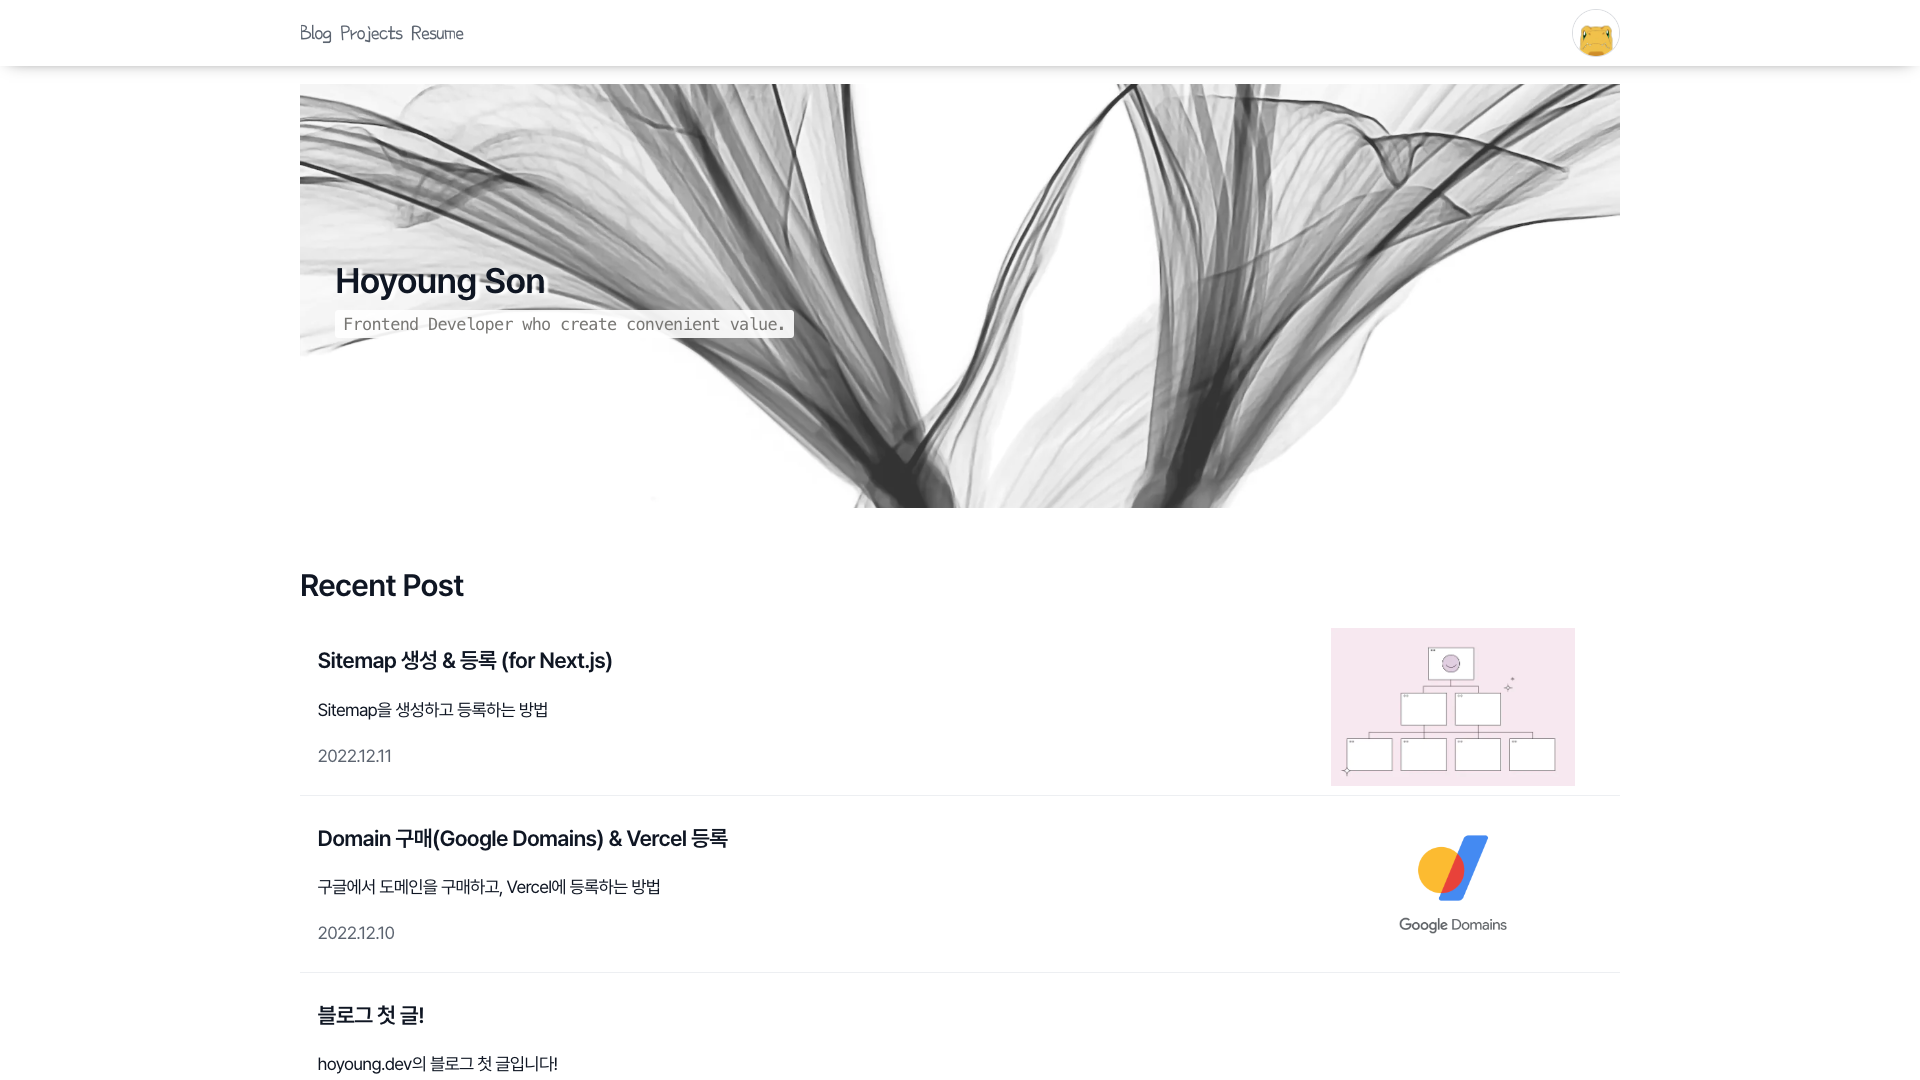
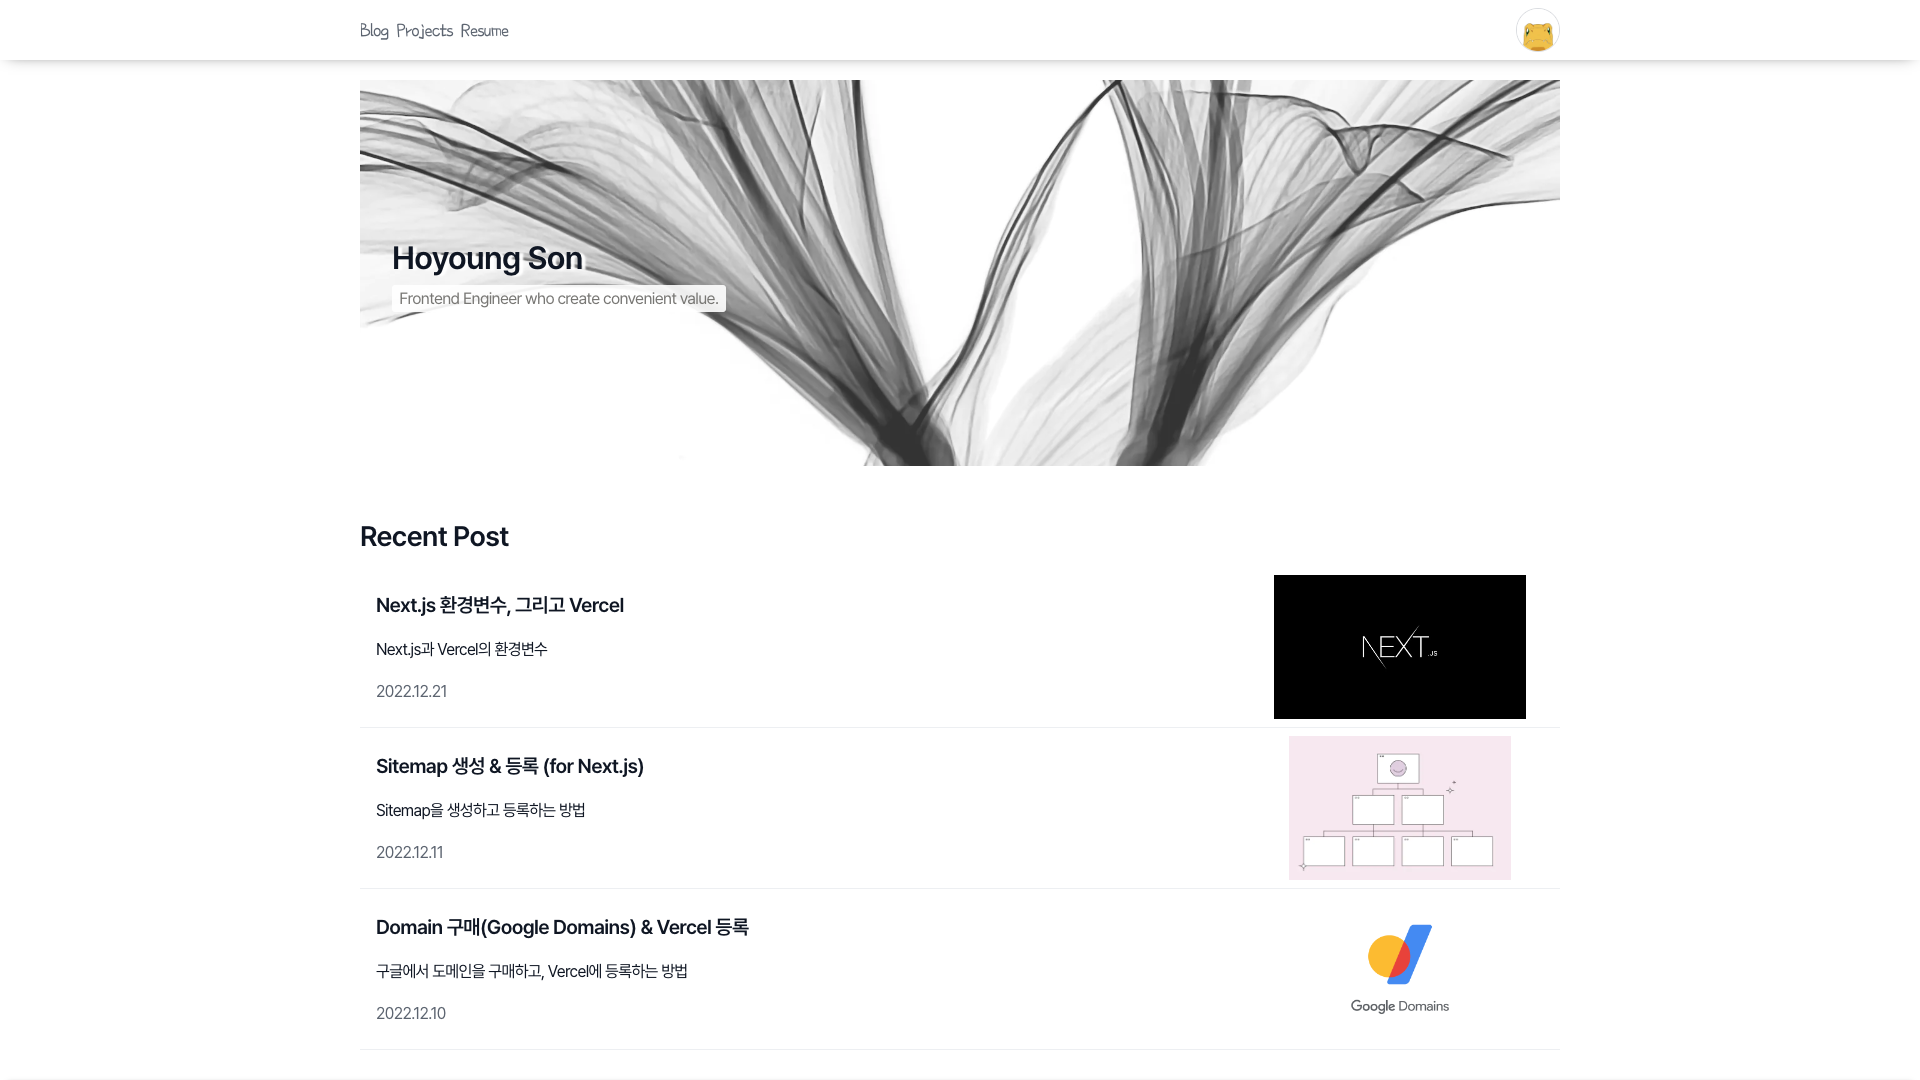
docs: :books: README & 글 수정 (2개)
- 글 수정
    - Blog: "Next.js 환경변수, 그리고 Vercel"
    - Projects: "Ranolog"

diff --git a/src/blog/components/BlogTemplate.tsx b/src/blog/components/BlogTemplate.tsx
@@ -111,6 +111,5 @@ const emptyBoxCss: CssProp = [
       height: '100%',
       fontWeight: 600,
       color: theme.colors.gray600,
-      border: [null, `1px solid ${theme.colors.gray300}`],
     }),
 ];

diff --git a/README.md b/README.md
@@ -34,7 +34,7 @@
 **Markdown**
 
 - `md`, `mdx` 지원
-- `mdx` 작성 시, 일부 컴포넌트 지원 ([Typography](https://ranolog-storybook.vercel.app/?path=/story/components-shared-typography--default), [CustomCode](https://ranolog-storybook.vercel.app/?path=/story/components-shared-customcode--default-red), [Divider](https://ranolog-storybook.vercel.app/?path=/story/components-shared-divider--default) 등..)
+- `mdx` 작성 시, 일부 컴포넌트 지원 ([Typography](https://ranolog-storybook.vercel.app/?path=/story/components-shared-typography--all-variant), [CustomCode](https://ranolog-storybook.vercel.app/?path=/story/components-shared-customcode--all-colors), [Divider](https://ranolog-storybook.vercel.app/?path=/story/components-shared-divider--default) 등..)
 - 문서 작성 편의를 위한 CLI 지원 (docs-maker)
 
 **Blog**
